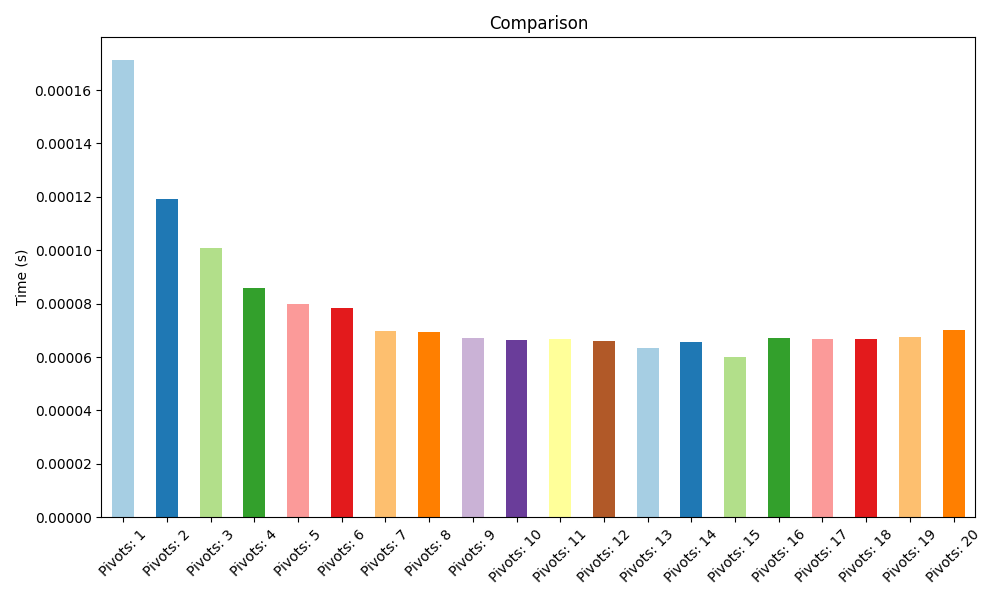
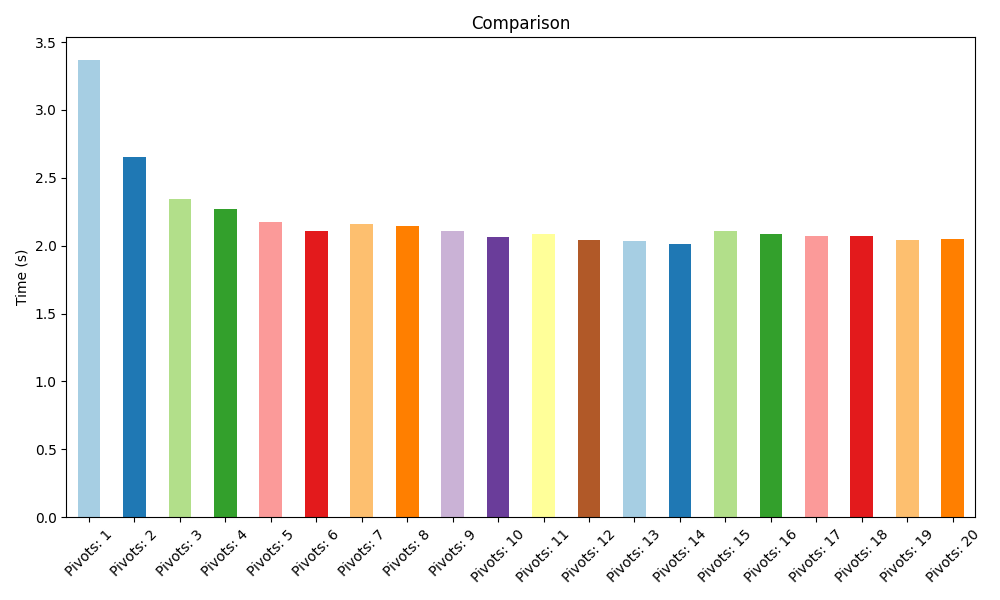
feat: Add pop_back and clear methods to LinkedList, and improve insert method in Vector with index validation

diff --git a/src/vector.py b/src/vector.py
@@ -21,15 +21,25 @@ class Vector:
             self._reallocate()
         self.vector[self._size] = value
         self._size += 1
-    
+
+    def insert(self, index: int, value: Any) -> None:
+        if 0 <= index <= self._size:
+            if self._cap - self._size <= 1 :
+                self._reallocate()
+            for i in range(self._size, index, -1):
+                self.vector[i] = self.vector[i - 1]
+            self.vector[index] = value
+            self._size += 1
+        else:
+            raise("Index out of range")
+        
     def resize(self, new_size: int) -> None:
         if self._size > new_size:
             for _ in range(self._size - new_size):
                 self.pop_back()
         elif self._size < new_size:
-            if new_size > self._cap:
-                while new_size > self._cap:
-                    self._reallocate()
+            while new_size > self._cap:
+                self._reallocate()
             for i in range(self._size, new_size):
                 self.vector[i] = None
             self._size = new_size
@@ -42,7 +52,9 @@ class Vector:
 
             self._size -=1
             self.vector[self._size] = None
-
+        else:
+            raise("Index out of range")
+        
     def erase_range(self, start: int, end:int) -> None:
         count = end - start
         
@@ -76,7 +88,8 @@ class Vector:
     def at(self, index:int) -> Any:
         if 0 <= index < self._size:
             return self.vector[index]
-        raise IndexError("Index out of range")
+        else:
+            raise IndexError("Index out of range")
         
     def size(self) -> int:
         return self._size

diff --git a/src/LinkedList.py b/src/LinkedList.py
@@ -41,6 +41,22 @@ class LinkedList:
 
         if self.head is None:
             self.tail = None
+    
+    def pop_back(self) -> None:
+        if self.head is None:
+            raise IndexError("Can not pop_back from empty list")
+        
+        if self.head == self.tail:
+            self.head = None
+            self.tail = None
+        else:
+            curNode = self.head
+            while curNode.next != self.tail:
+                curNode = curNode.next
+            curNode.next = None
+            self.tail = curNode
+        
+        self._size -= 1
 
     def insert(self, index:int, value:Any) -> None:
         if index < 0 or index > self._size:
@@ -74,3 +90,24 @@ class LinkedList:
                 curNode = curNode.next
             return curNode.value
         
+    def clear(self) -> None:
+        self.head = None
+        self.tail = None
+        self._size = 0
+
+    def erase(self, index: int) -> None:
+        if index < 0 or index >= self._size:
+            raise IndexError("Index out of range")
+        else:
+            if index == 0:
+                self.pop_front()
+                return
+            elif index == self._size-1:
+                self.pop_back()
+                return
+            else:
+                curNode = self.head
+                for _ in range(index-1):
+                    curNode = curNode.next
+                curNode.next = curNode.next.next
+                self._size -= 1

diff --git a/benchmarks/qsMltPivotBenchmark.py b/benchmarks/qsMltPivotBenchmark.py
@@ -8,7 +8,7 @@ from src import algorithms as alg
 
 PATH_TO_SAVE_TABLE = "outputs/tables/metrics_quick_sort.csv"
 PATH_TO_SAVE_PLOT = "outputs/plots/metrics_quick_sort.png"
-sizes = [i for i in range(100, 1001, 101)]
+sizes = [i for i in range(1000, 100001, 1000)]
 
 def compare_quick_sort(sizes):
     results = []
@@ -28,4 +28,4 @@ def compare_quick_sort(sizes):
 
 if __name__ == "__main__":
     ut.save_metrics(PATH_TO_SAVE_TABLE, compare_quick_sort, sizes = sizes)
-    ut.generate_plot(PATH_TO_SAVE_PLOT, PATH_TO_SAVE_TABLE, kind="bar", xlabel=None)
+    ut.generate_plot(PATH_TO_SAVE_PLOT, PATH_TO_SAVE_TABLE)
